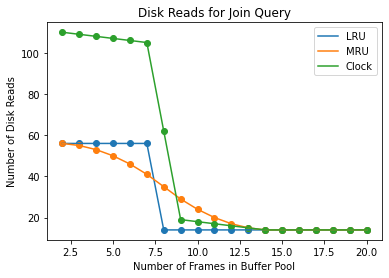
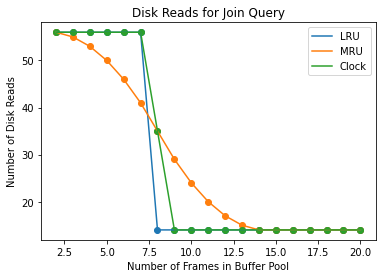
Done

diff --git a/bufferManager.cpp b/bufferManager.cpp
@@ -164,7 +164,6 @@ char *ClockBufferManager::getPage(FILE* fp, int pageNum){
         return pageData;
     }
     stats.accesses++;
-    stats.diskreads++;
     // page is not present in memory and memory is full
     while(true){
         if(bufferPool[clock_hand].second_chance){
